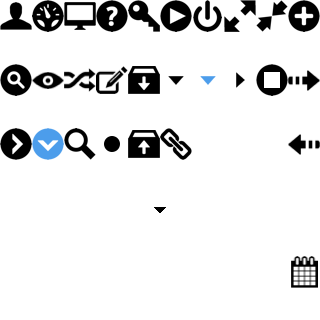
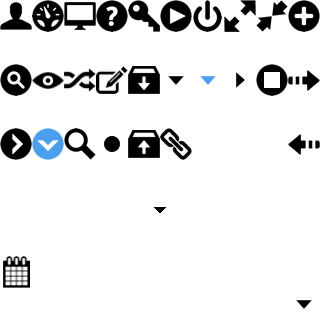
responses select carot fix

Changed region(s): [[0.9062, 0.7812, 1.0, 0.9062], [0.0, 0.7812, 0.0938, 0.9062], [0.9375, 0.9375, 0.9688, 0.9688]]

diff --git a/app/assets/stylesheets/_redesign-pbc.scss b/app/assets/stylesheets/_redesign-pbc.scss
@@ -309,13 +309,17 @@ h4.pbc-title {
       border-top-width: 0px;
       -webkit-appearance: textfield;
       -moz-appearance: textfield;
-      background: none;
+      background-color: transparent;
+      @include background-size(160px 160px);
+      background-image: url("/images/grcicons/icons.png");
+      background-repeat: no-repeat;
+      background-position: right -144px;
       border: none;
       line-height: 16px;
       height: 16px;
       font-size: 11px;
       text-decoration: none;
-      padding: 0;
+      padding: 0 18px 0 0;
       width: auto;
       cursor:pointer;
       margin-bottom: 0;

diff --git a/app/assets/stylesheets/_redesign-common.scss b/app/assets/stylesheets/_redesign-common.scss
@@ -143,7 +143,7 @@ input.date {
   @include background-size(160px 160px);
   background-image: url("/images/grcicons/icons.png");
   background-repeat: no-repeat;
-  background-position: -141px -123px;
+  background-position: 0 -123px;
 }
 
 input.input-block-level {
